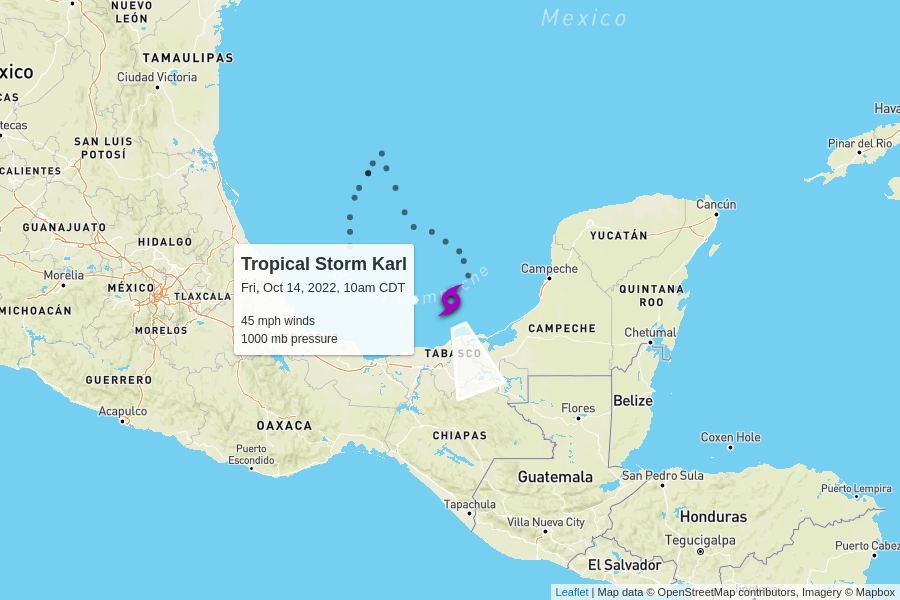
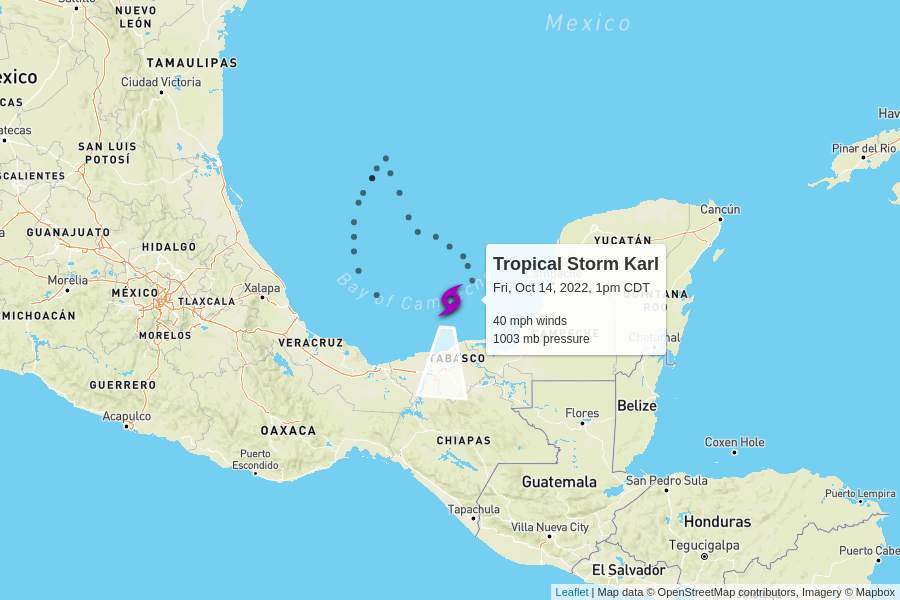
automatic update

diff --git a/docs/index.html b/docs/index.html
@@ -100,7 +100,7 @@
         <td colspan="6" class="storm category-0" >
           <h2>
             Tropical Storm Karl
-            <p class="updated">last updated <span data-time>2022-10-14T15:00:00.000Z</span></p>
+            <p class="updated">last updated <span data-time>2022-10-14T18:00:00.000Z</span></p>
           </h2>
         </td>
       </tr>
@@ -115,12 +115,12 @@
       </tr>
       <tr>
         <td class="spacer"></td>
-        <td>45 mph</td>
-        <td>1000 mb</td>
+        <td>40 mph</td>
+        <td>1003 mb</td>
         <td>
-          7 mph to the south-southeast
+          6 mph to the south
           <br/>
-          <span style="display: inline-block; font-size: 1.5em; transform: rotate(160deg);">↑</span>
+          <span style="display: inline-block; font-size: 1.5em; transform: rotate(185deg);">↑</span>
         </td>
         <td><a href="https://raw.githubusercontent.com/mgwalker/atlantic-hurricanes/main/data/csv/AL142022.csv">AL142022.csv</a></td>
         <td><a href="https://www.nhc.noaa.gov/archive/2022/KARL.shtml?">NHC advisories</a></td>
